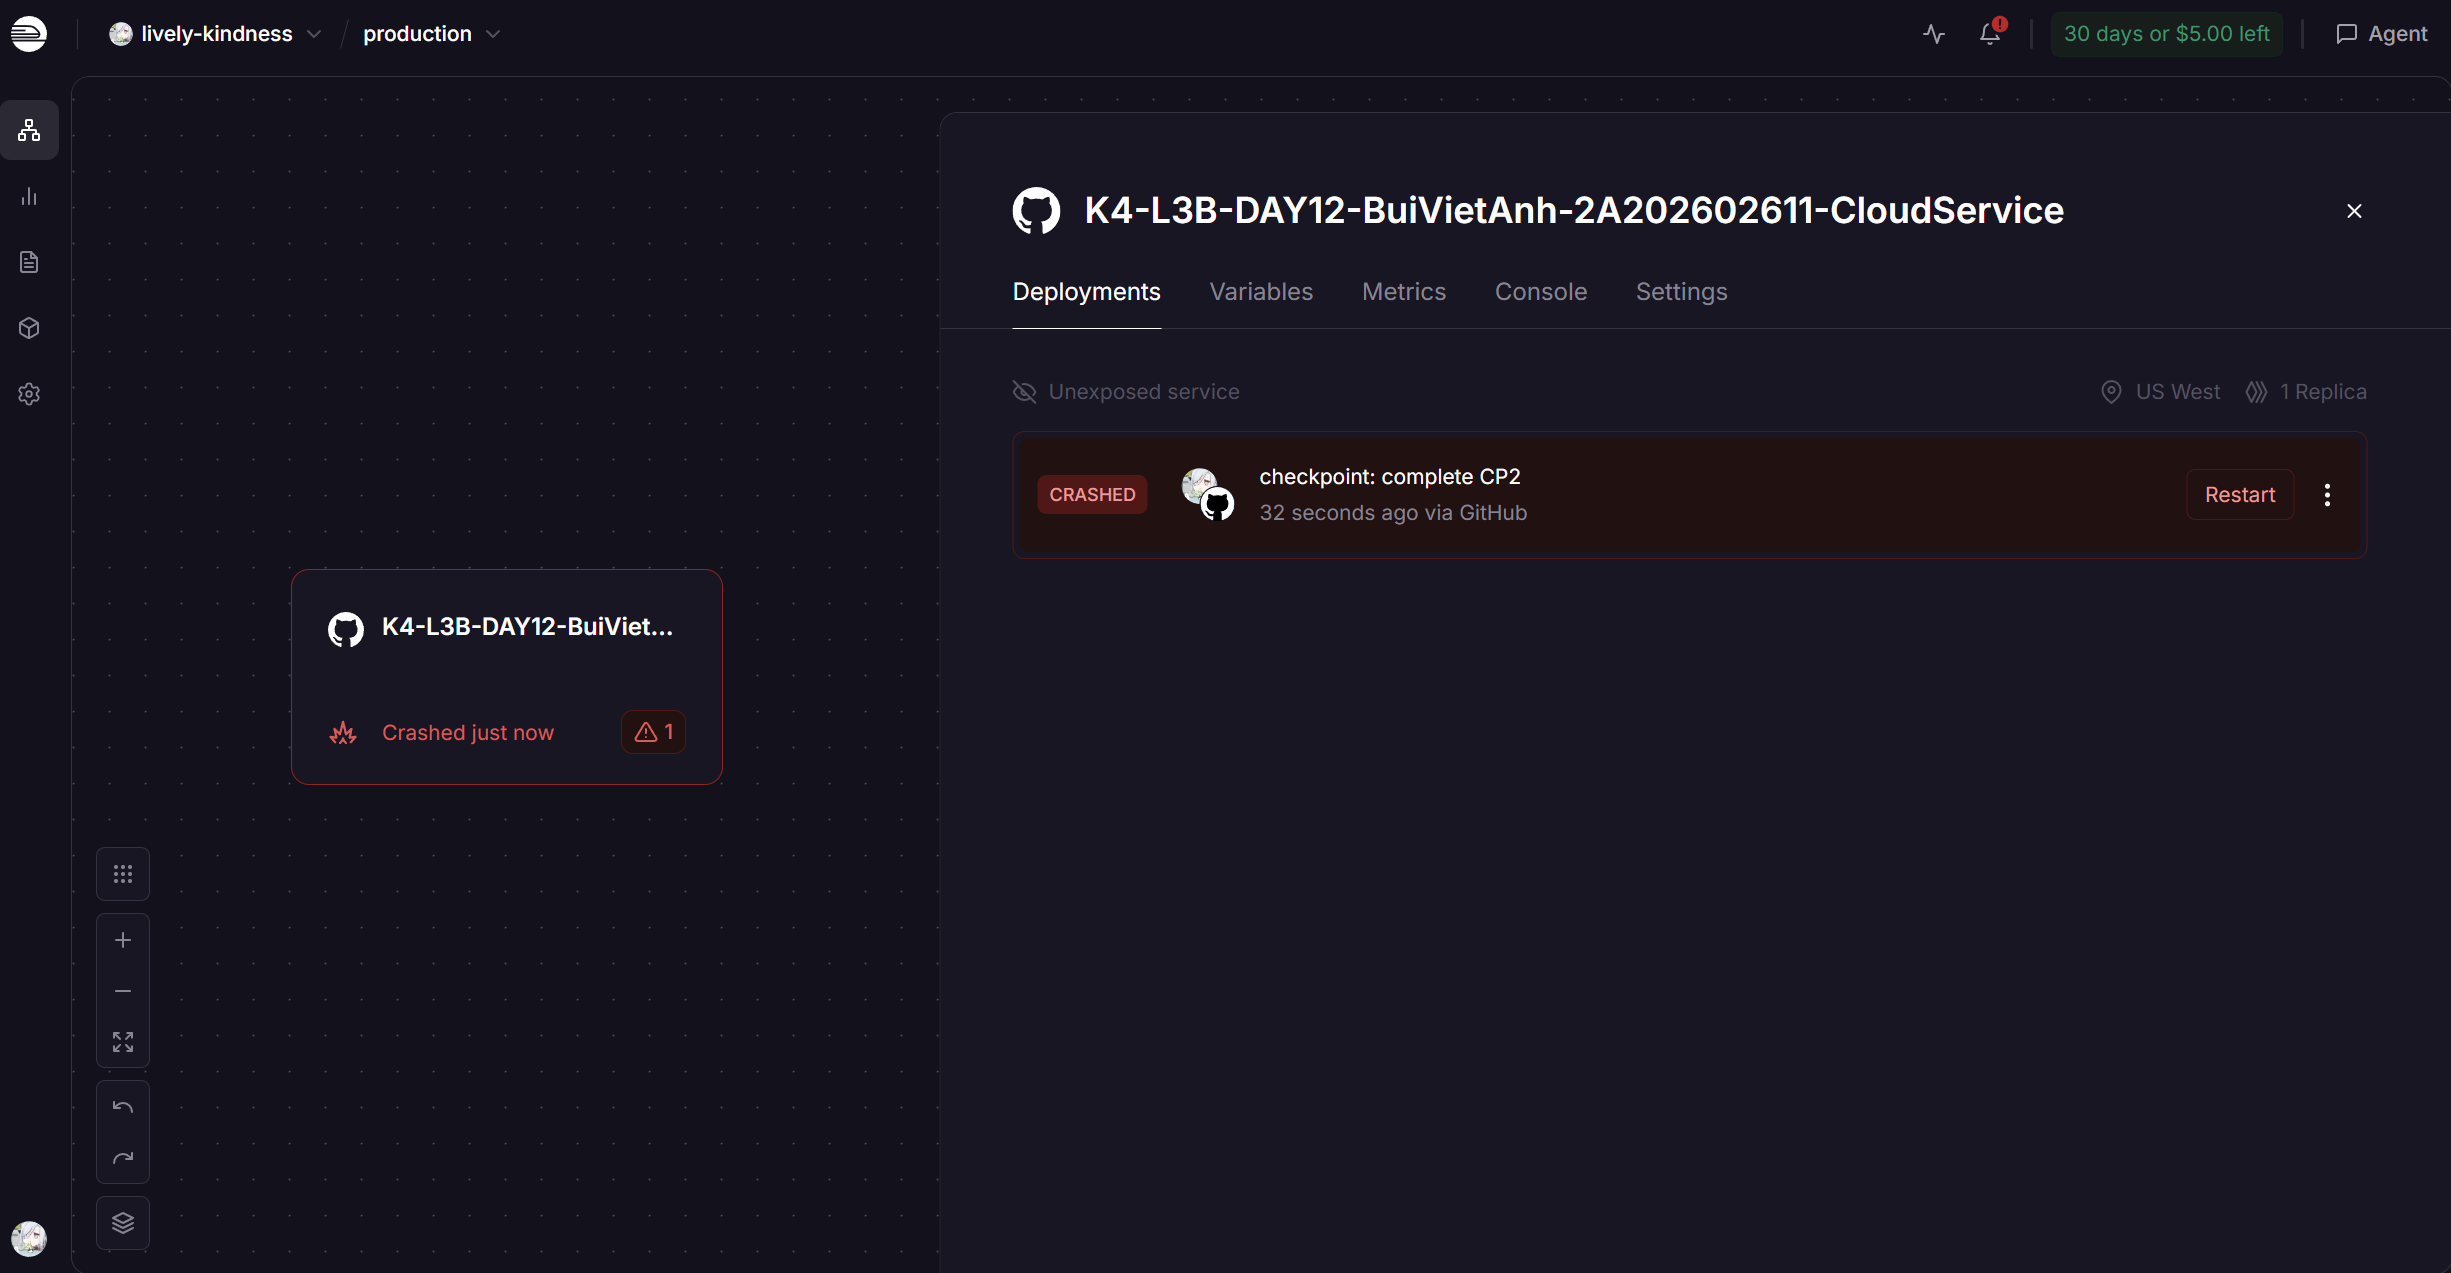
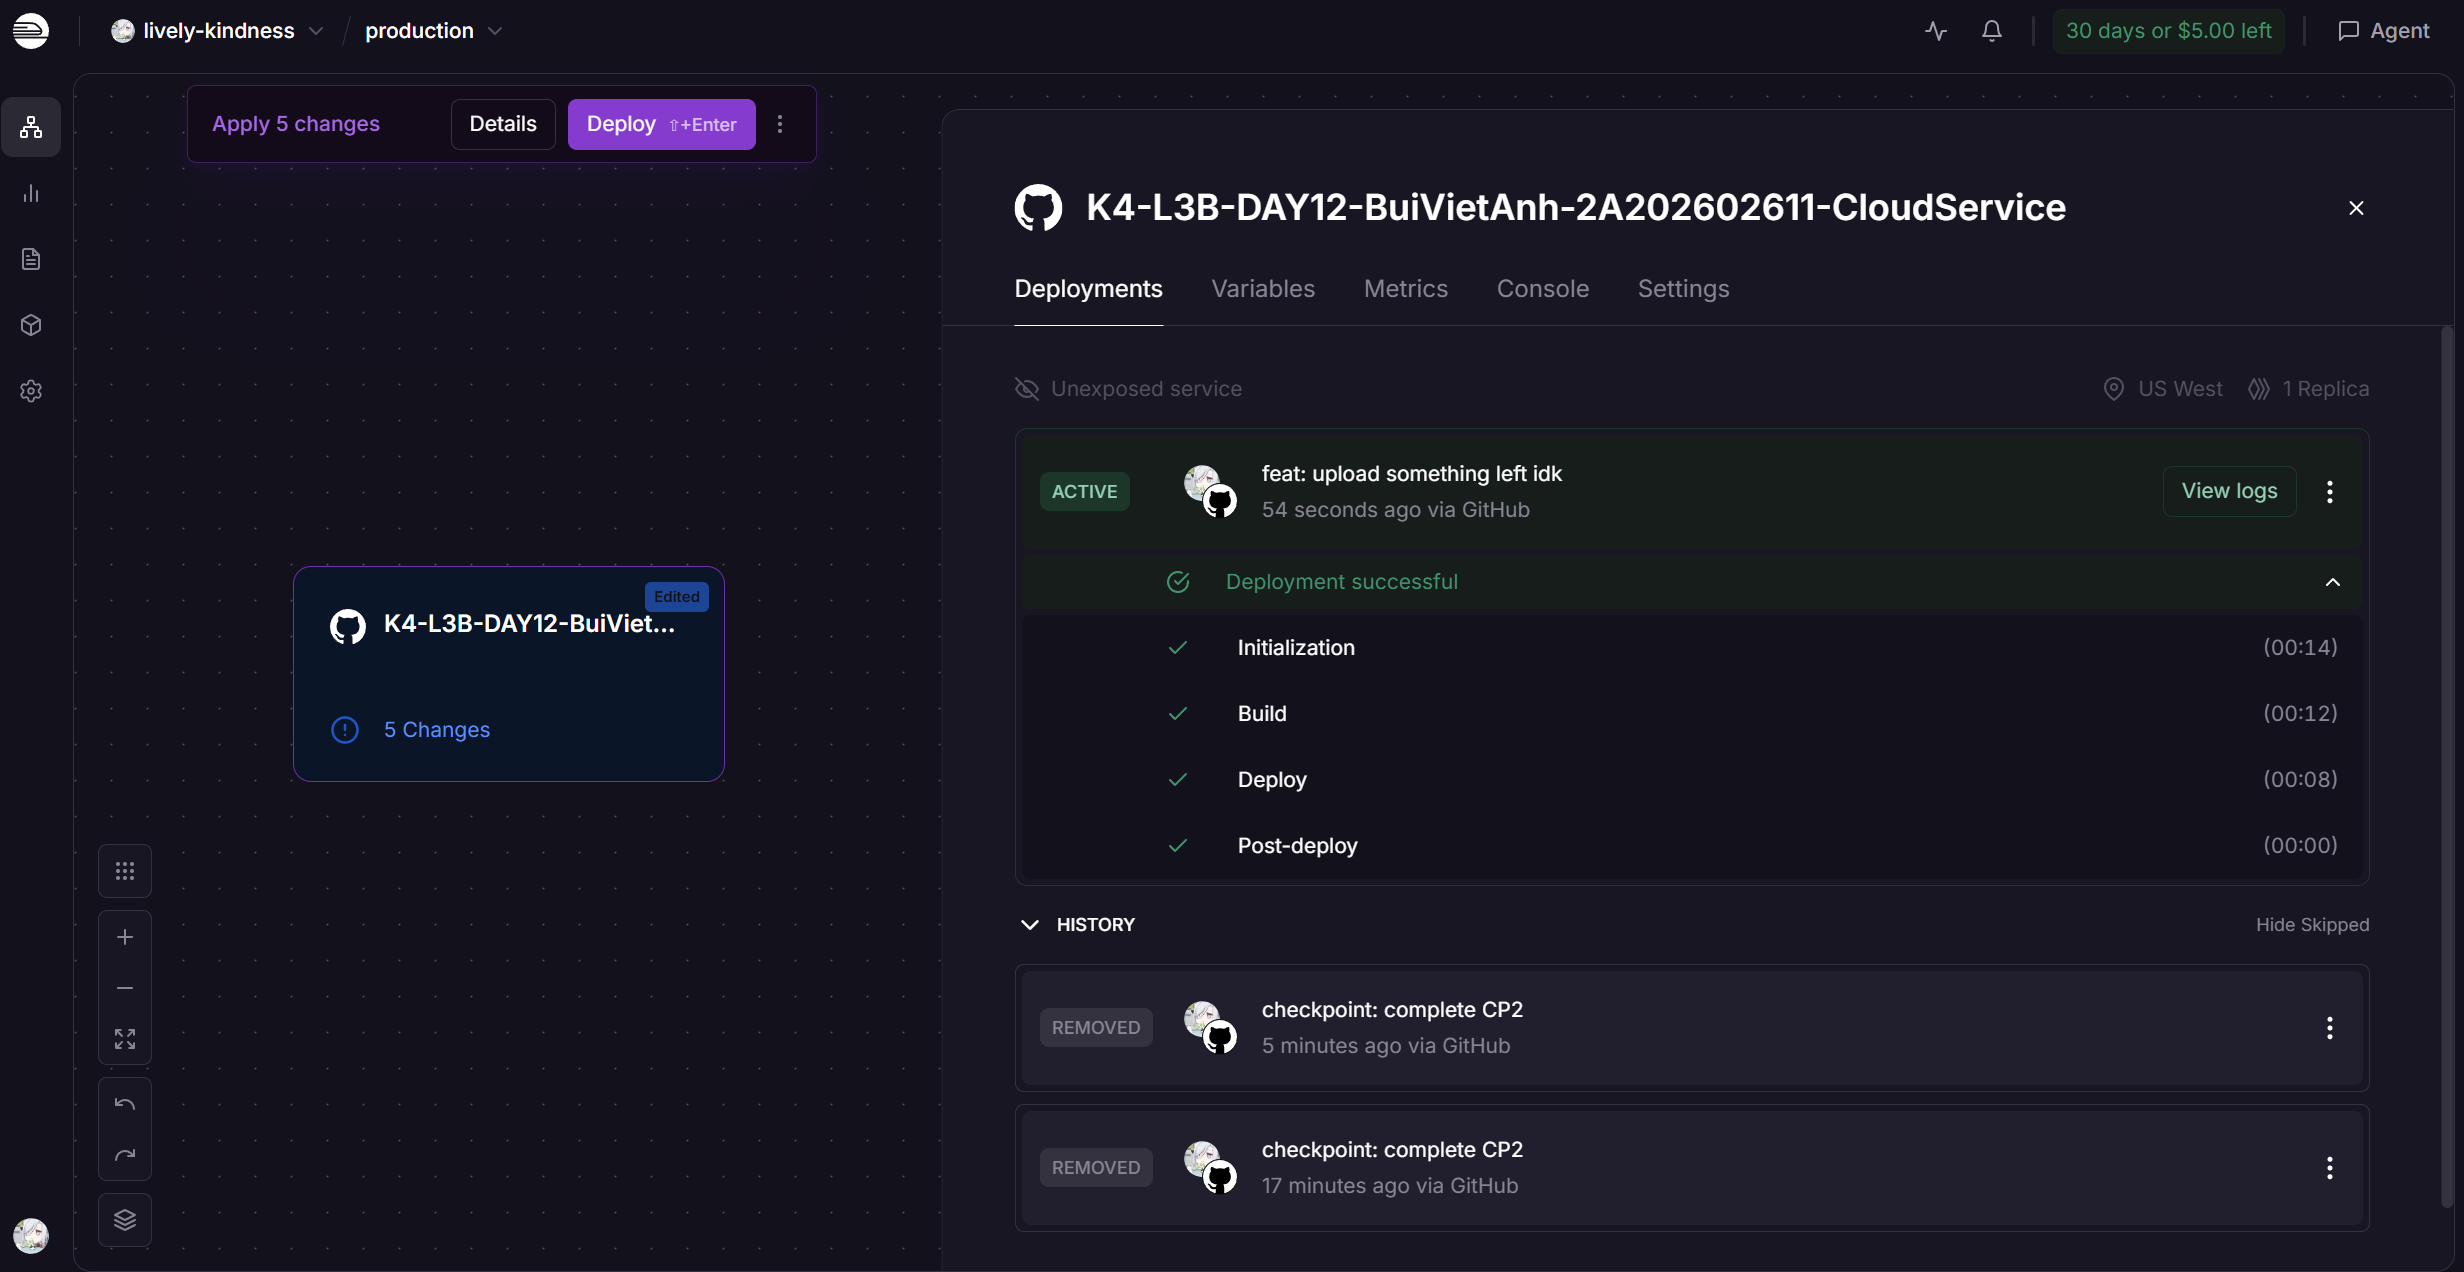
docs: upload exercises and screenshot prove

diff --git a/screenshots/README.md b/screenshots/README.md
@@ -1,2 +1,4 @@
 # Đặt ảnh chụp màn hình bản deploy vào thư mục này
 ![alt text](image.png)
+
+![alt text](image-1.png)
